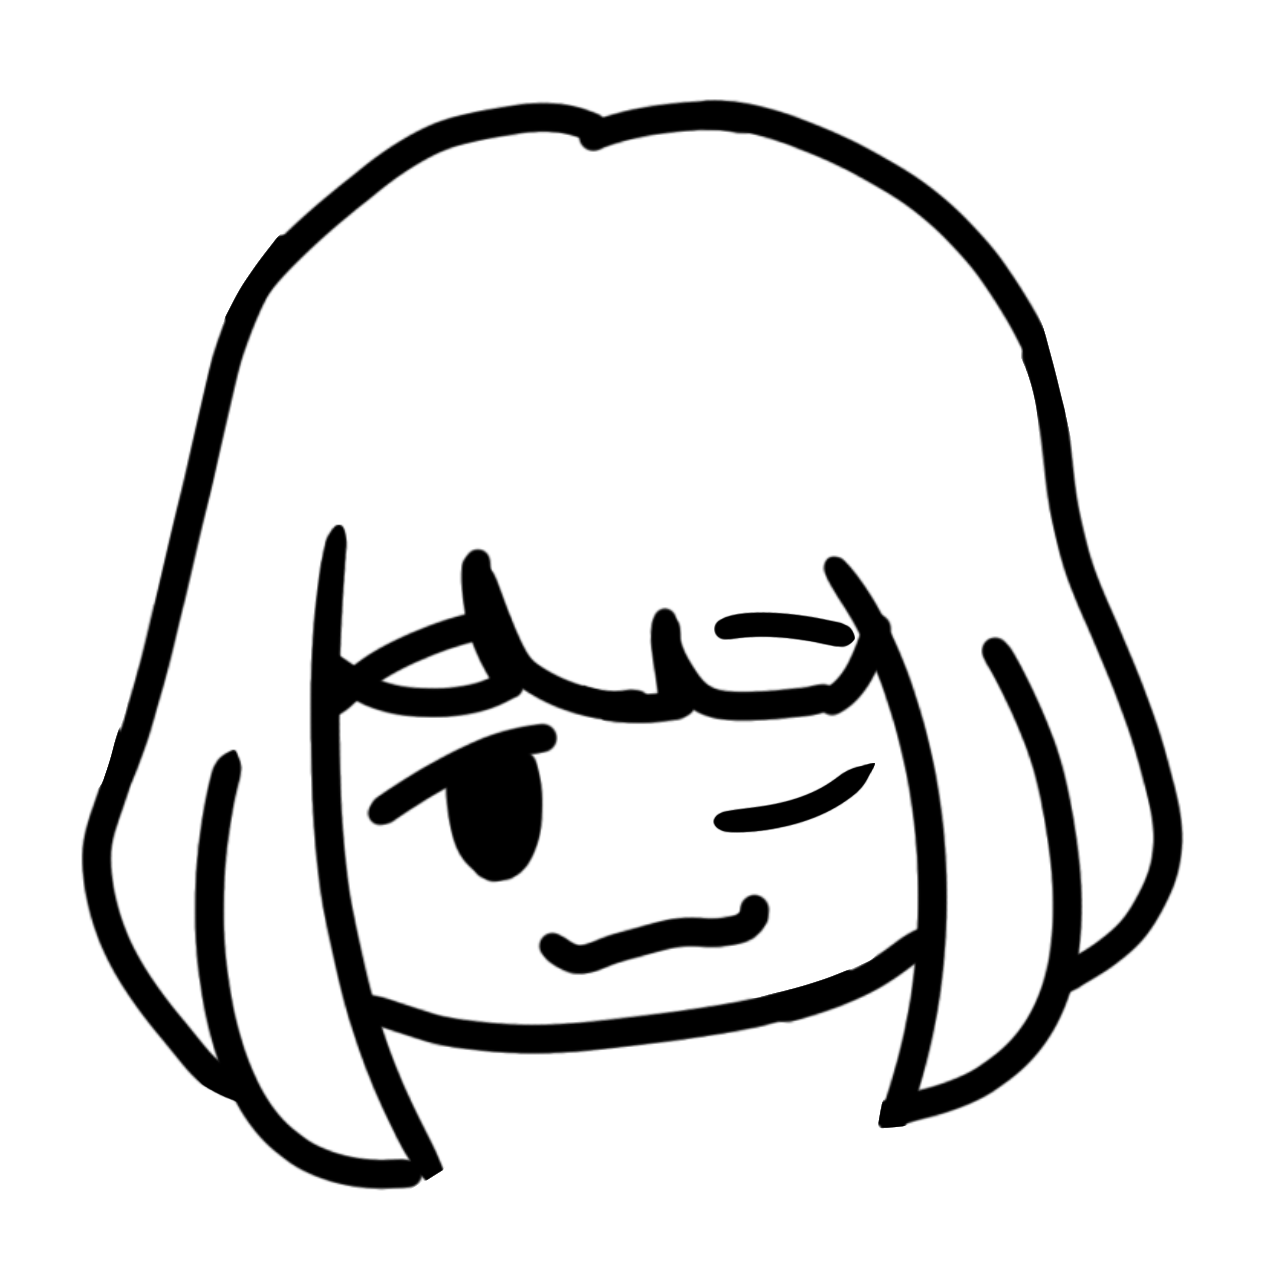
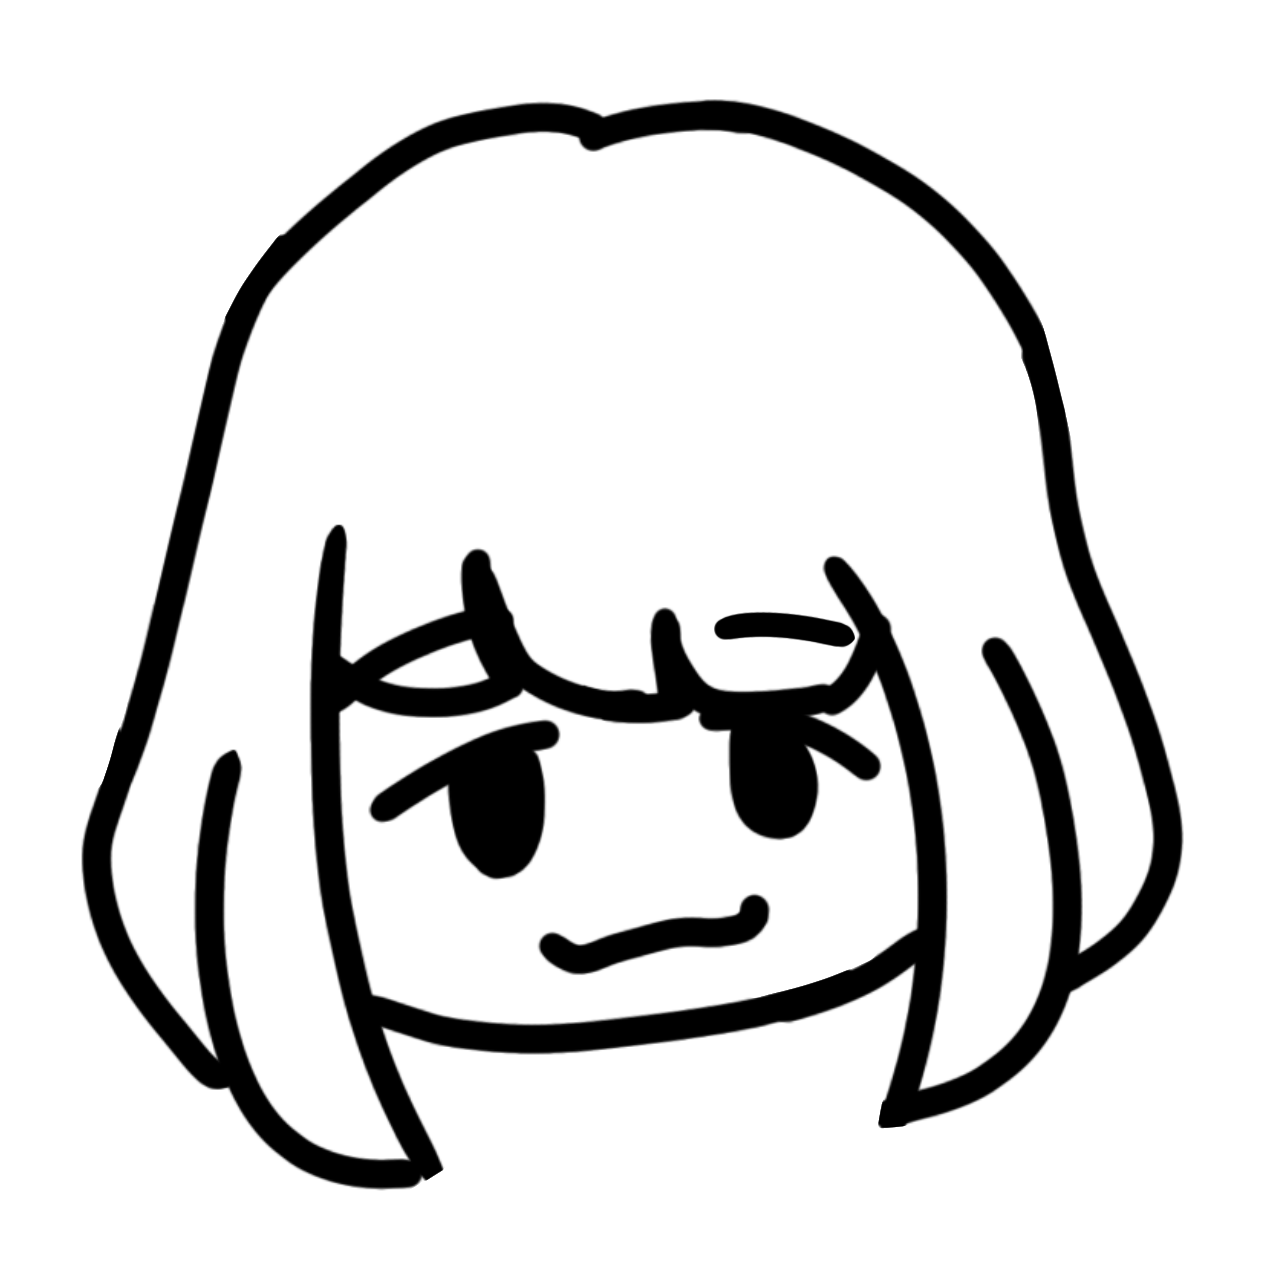
it's just free and simple

diff --git a/src/App.js b/src/App.js
@@ -1,24 +1,43 @@
-import React from "react";
+import React, { useState } from "react";
 import ToDo from "./assets/components/todo";
+
 import AuthorImg from "./assets/images/author.png";
+import AuthorBlinkImg from "./assets/images/author_blink.png"
+
 import './assets/icons/bootstrap/bootstrap-icon.css';
 import './assets/components/fonts/google-fonts.css';
 import './assets/css/dist/output.css';
 import './assets/css/utilities.css';
 
 function App() {
+  const [blink, setBlink] = useState(false);
+
+  const autblink = () => {
+    setBlink(!blink);
+  }
+
   return <>
-    <main className="bg-indigo-100 bg-opacity-80 py-24 px-20 h-screen overflow-scroll">
+    <main className="bg-indigo-100 bg-opacity-80 pt-24 pb-5 px-20 h-screen overflow-scroll">
       <div className="absolute top-3 left-3">
-        <img className="w-14" src={AuthorImg} alt="author" />
+        <img
+          className="w-14"
+          src={blink ? AuthorBlinkImg : AuthorImg}
+          onMouseEnter={autblink}
+          onMouseLeave={autblink}
+          alt="author"
+          title="that's is my character"
+        />
       </div>
       <header className="text-center">
         <h1 className="text-3xl font-poppins font-bold text-blue-600">Kruti List</h1>
-        <p className="mt-1 mx-auto font-roboto w-3/4">Kruti list is a <b className="">free</b> and <b className="">open-source</b> to-do list app that does something</p>
+        <p className="mt-1 mx-auto font-roboto w-3/4">Kruti list is a <b className="">free</b> and <b className="">simple</b> to-do list app that can do something even better...</p>
       </header>
-      <section className="mt-10">
+      <section className="mt-10 font-roboto">
         <ToDo list={[]} />
       </section>
+      <footer className="mt-20 text-center text-sm font-roboto">
+        <p>This is a React App was made<br/>by Norman Andrians</p>
+      </footer>
     </main>
   </>
 }
